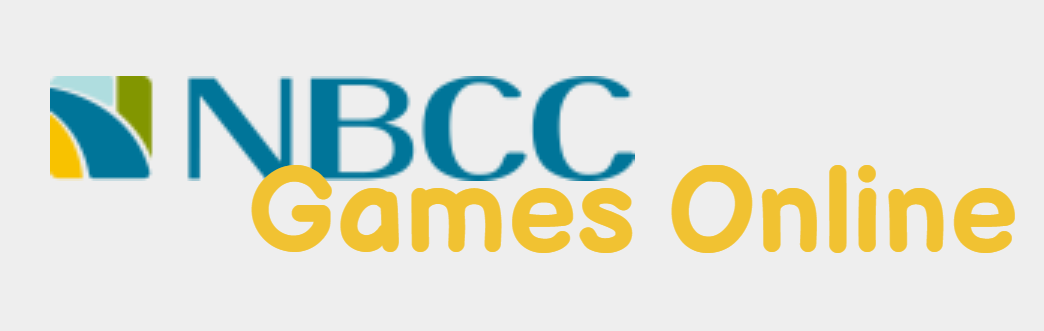
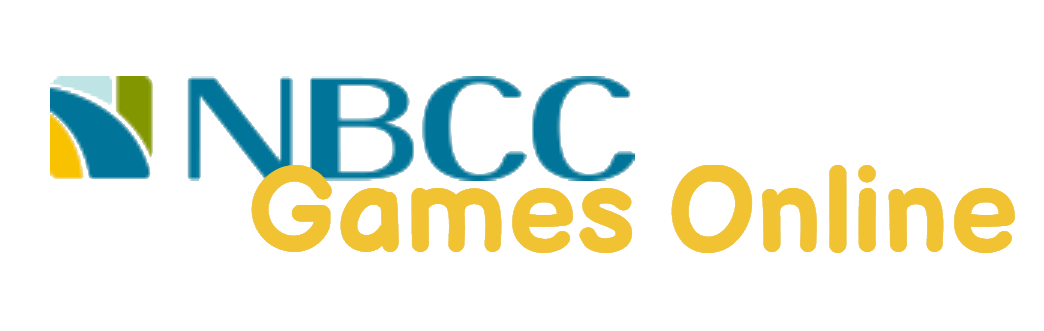
Adding css, updating html and making changes on images
Changed logo to no background, added css to small pages ( only 1 instance).

diff --git a/index.html b/index.html
@@ -3,6 +3,7 @@
   <head>
     <meta name="viewport" content="width=device-width, initial-scale=1.0">
     <meta charset="utf-8">
+    <link rel="stylesheet" href="https://use.fontawesome.com/releases/v5.12.1/css/all.css" crossorigin="anonymous">
     <link href="https://cdn.jsdelivr.net/npm/bootstrap@5.1.3/dist/css/bootstrap.min.css" rel="stylesheet" integrity="sha384-1BmE4kWBq78iYhFldvKuhfTAU6auU8tT94WrHftjDbrCEXSU1oBoqyl2QvZ6jIW3" crossorigin="anonymous">
     <link rel="stylesheet" href="master.css">
     
@@ -12,26 +13,62 @@
     <div class="content">
       <div class="header">
         <img class="nbccGamesimg" src="NBCCGamesOnline.PNG" alt="NBCC games logo">
+        <div class="socialMediaHeader">
+          <a href=""><i class="fab fa-facebook"></i></a> 
+         <a href=""><i class="fab fa-instagram"></i></a>
+         <a href=""><i class="fab fa-steam"></i></a>
+         <a href=""><i class="fab fa-telegram"></i></a>
+          <a href=""><i class="fab fa-twitch"></i></a>
+        </div>
       </div>
       <div class="dropdown">
-        <button class="btn btn-secondary dropdown-toggle" type="button" id="dropdownMenuButton" data-toggle="dropdown" aria-haspopup="true" aria-expanded="false">
-          Dropdown button
+        <button id="mainDropdown" class="btn btn-secondary " type="button" id="dropdownMenuButton" data-toggle="dropdown" aria-haspopup="true" aria-expanded="false">
+          <i class="fas fa-bars"></i>
         </button>
         <div class="dropdown-menu" aria-labelledby="dropdownMenuButton">
-          <a class="dropdown-item" href="#">Action</a>
-          <a class="dropdown-item" href="#">Another action</a>
-          <a class="dropdown-item" href="#">Something else here</a>
+          <p>Top 10 Games</p>
+          <a class="dropdown-item" href="#">Skyrim</a>
+          <a class="dropdown-item" href="#">Hangman</a>
+          <a class="dropdown-item" href="#">Chess</a>
+          <a class="dropdown-item" href="#">Checkers</a>
+          <a class="dropdown-item" href="#">Frog Crossing</a>
+          <a class="dropdown-item" href="#">Tibia</a>
+          <a class="dropdown-item" href="#">Shot Strike</a>
+          <a class="dropdown-item" href="#">Star Wars</a>
+          <a class="dropdown-item" href="#">LOTR puzzle</a>
+          <a class="dropdown-item" href="#">Zelda</a>
+          <p>Rank by Score</p>
+          <a class="dropdown-item" href="#">Skyrim</a>
+          <a class="dropdown-item" href="#">Hangman</a>
+          <a class="dropdown-item" href="#">Chess</a>
+          <a class="dropdown-item" href="#">Checkers</a>
+          <a class="dropdown-item" href="#">Frog Crossing</a>
+          <a class="dropdown-item" href="#">Tibia</a>
+          <a class="dropdown-item" href="#">Shot Strike</a>
+          <a class="dropdown-item" href="#">Star Wars</a>
+          <a class="dropdown-item" href="#">LOTR puzzle</a>
+          <a class="dropdown-item" href="#">Zelda</a>
+        </div>
+        <div class="socialMediaDropdown">
+         <a href=""><i class="fab fa-facebook"></i></a> 
+         <a href=""><i class="fab fa-instagram"></i></a>
+         <a href=""><i class="fab fa-steam"></i></a>
+         <a href=""><i class="fab fa-telegram"></i></a>
+          <a href=""><i class="fab fa-twitch"></i></a>
         </div>
       </div>
       <div class="mainContent">
-        <p class="students">Developed by: Leonardo De Andrade Silva, Carlos Eduardo de Carvalho Alves</p>
-        <h1>Now Playing:</h1>
-        <h2 class="gameTitle">Hangman</h2>
+        <div id="creators">
+          <p class="students">Developed by: </p>
+          <p>Leonardo De Andrade Silva, Carlos Eduardo de Carvalho Alves</p>
+        </div>
+        <h2>Now Playing:</h1>
+        <h1 class="gameTitle">Hangman</h2>
         <div class="hangmanGame">
           <img class="letterSelection"src="alphabetfull.PNG" alt="Letters to be selected">
           <img class="hangman"src="hangmanFull.png" alt="hangman image">
           <div class="remainingGuesses">
-            Remaing Guesses: 0
+            <p>Remaing Guesses: 0</p>
           </div>
           <div class="guessedWord">
             <p> F A I L __ D</p>
@@ -41,24 +78,40 @@
       </div>
 
       <div class="advertisement">
-        <p>Advertisement</p>
+        <p id="advertisementSign">Advertisement</p>
         <hr>
         <div class="adBlock">
-          <h2>LOST ALL MONEY ON TUITION?</h2>
-          <img class="advertisementImg1" src="" alt="Advertisement Image one">
-          <img class="advertisementImg2" src="" alt="Advertisement Image two">
-          <h2>We can't HELP!</h2>
-          <img class="advertisementImg3" src="" alt="Advertisement Image three">
+          <h1>LOST ALL MONEY ON TUITION?</h1>
+          <img id="advertisementImg1" src="student.jpg" alt="Advertisement Image one">
+          <img id="advertisementImg2" src="student2.png" alt="Advertisement Image two">
+          <h2>We can't HELP YOU!</h2>
         </div>
       </div>
 
       <div class="information">
-        <a href="#">link1</a>
-        <a href="#">link2</a>
-        <a href="#">link3</a>
-        <a href="#">link4</a>
-        <a href="#">link5</a>
-        <a href="#">link6</a>
+        <ul>
+          <li>
+            <a href="#">link2</a>
+          </li>
+          <li>
+            <a href="#">link2</a>
+          </li>
+          <li>
+            <a href="#">link2</a>
+          </li>
+          <li>
+            <a href="#">link2</a>
+          </li>
+          <li>
+            <a href="#">link2</a>
+          </li>
+          <li>
+            <a href="#">link2</a>
+          </li>
+        
+      </ul>  
+        
+    
       </div>
       <footer>
         <img class="nbccGamesimg" src="NBCCGamesOnline.PNG" alt="NBCC games logo">

diff --git a/master.css b/master.css
@@ -4,7 +4,9 @@ body{
 }
 .header{
     margin: 0px;
-    border: 3px solid black;
+    border-bottom: 2px solid black;
+    
+    
 }
 
 .navbar{
@@ -17,6 +19,13 @@ body{
 body > div > nav{
     padding-left: 5px;
 }
+.dropdown{
+    border-bottom: 2px solid black;
+    border-top: 0px;
+}
+body > div > div.dropdown.show > div.dropdown-menu.show{
+    transform: translate3d(10px, 30px,0px);
+}
 
 #navbarTogglerDemo01{
     width: 200px;
@@ -27,12 +36,145 @@ body > div > nav{
         padding-left: 5%;
         padding-top: 2%;
         padding-bottom: 3%;
+        background-color: #ededed;
     }
     .nbccGamesimg{
-        width: 30%;
+        width: 40%;
     }
     #navbarTogglerDemo01::after, ::before{
         width: 30%;
+    }
+    .socialMediaHeader{
+        visibility: hidden;
+        
+    }
+
+    #mainDropdown{
+        margin: 10px;
+      
+
+    }
+    .dropdown{
+        background-color: #597eaa;
+    }
+    .socialMediaDropdown{
+        float:right;
+        margin-right: 10px;
+        margin-top: 10px;
+    }
+    .socialMediaDropdown i{
+        font-size: 1.4em;
+        padding-top: 10px;
+        padding-left: 10px;
+        color: whitesmoke;
+    }
+    .mainContent {
+        float: left;
+        padding-left: 15px;
+    }
+    #creators p{
+      margin-bottom: 5px;  
+    }
+    .mainContent h2 {
+        padding-left: 20px; 
+        padding-bottom: 0px; 
+        margin-bottom: 0px;
+        margin-top: 300px;
+        font-size: 2.0em;
+    }
+    .mainContent h1{
+        margin-top: 0px;
+        padding-left: 55px;
+        padding-top: 0px;
+        font-size: 3.0em;
+    }
+    .hangmanGame{
+        border: 2px solid black;
+        margin-right: 15px;
+        margin-top: 30px;
+    }
+    .letterSelection{
+        width: 40%;
+        padding-left: 10px;
+        box-sizing: border-box;
+    }
+    .hangman{
+        width: 55%;
+        padding-top: 10px;
+        box-sizing: border-box;
+
+    }
+    .remainingGuesses{
+        margin-left: 5%;
+        margin-top: 3%;
+        width: 30%;
+        box-sizing: border-box;
+        font-size: 1.5em;
+        float: left;
+    }
+    .guessedWord{
+        margin-top: 20px;
+        margin-bottom: 20px;
+        margin-left: 40%;
+        margin-right: 5%;
+        padding: 2%;
+        box-sizing: border-box;
+        border: 1px solid black;
+        
+    }
+    .guessedWord p {
+        font-size: 2.2em;
+    }
+
+    .advertisement{
+        float:left;
+        position: absolute;
+        margin-top: 80px;
+        margin-bottom: 0;
+        margin-right: 0;
+        text-align: center;
+        width: 100%;
+    }
+    #advertisementSign{
+        font-size: 0.5em;
+        font: bold;
+        margin-bottom: 0;
+        padding-bottom: 0px;
+    }
+    hr{
+        padding: 0;
+        width: 70%;
+        margin: 4px;
+        line-height: 3px;
+    }
+    .adBlock{
+        width: 100%;
+        margin-right: 0;
+        background-color: #93c47d;
+    }
+    #advertisementImg1{
+        margin-top: 0px; 
+        width: 60%;
+    }
+
+    #advertisementImg2{
+        display: none;
+
+    }
+    .information{
+        margin-top: 20px;
+        width: 100%;
+        padding-top: 10px;
+        padding-bottom: 0px;
+        float: left;
+        background-color: #597eaa ;
+        border-top: 2px solid black ;
+        border-bottom: 2px solid black;
+    }
+    .information li{
+        display: inline;
+        padding-left: 20%;
+        padding-right: 20%;
     }
 }
 
